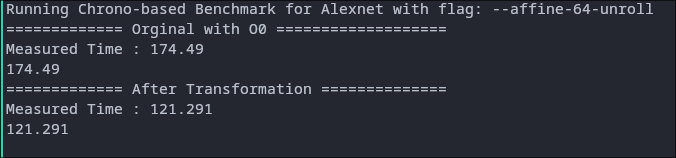
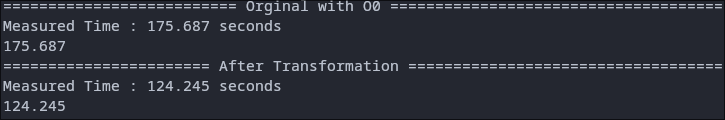
Updated Readme and Build scripts
Updated the above for better presentation

diff --git a/benchmarks/Hardware_Counters_or_Time/run_bench.h b/benchmarks/Hardware_Counters_or_Time/run_bench.h
@@ -105,7 +105,7 @@ void print_time() {
       std::chrono::duration_cast<std::chrono::nanoseconds>(timing).count();
   time_reading = time_reading_ns / 1000000000;
 #ifdef HUMAN_READABLE
-  std::cerr << "Measured Time : " << time_reading << std::endl;
+  std::cerr << "Measured Time : " << time_reading << " seconds" << std::endl;
 #endif
   std::cerr << time_reading << std::endl;
 }

diff --git a/README.md b/README.md
@@ -58,7 +58,7 @@ git submodule update --init --recursive
 
 ### 3) Run a Pre-included Benchmark to Verify the Setup
 ```bash
-./benchmark GB Alexnet --affine-64-unroll
+./benchmark.sh chrono Alexnet --affine-64-unroll
 ```
 
 ## Usage Guide
@@ -76,9 +76,13 @@ To run your own benchmarks, use the command:
 ```bash
 $rootdir/benchmark.sh [benchmark_type] [ML_model] [benchmark_flag] [PAPI_event_name]
 ```
+![sample_output](https://github.com/mvvsmk/OptML/blob/main/example_output.png?raw=true)
 
 > [!WARNING]  
 > Before interpreting your benchmark results, it's important to understand how the benchmarking process works.
+> This looks like a 29% increase but what you miss, is the object file size increase from 16KB to 2.5MB. XD . This was measured on a Intel(R) Core(TM) Ultra 9 185H, in a single threaded manner, this measurement also includes array initilization to all zeros.
+
+
 
 ## Benchmarking Process
 
@@ -109,7 +113,13 @@ extern "C" void forward();
 
 When you run a pass using the `benchmark.sh` script, it generates a `Modified.mlir` file, which is then processed through the same pipeline and linked for benchmarking.
 
+All these benchmarks are run in a single threaded manner without sudo taskset -c <thread>.
+
+You can use the *.cpp and *.h files present in the `benchmarks/Hardware_Counters_or_Time` folder and add any custom parameters you want to measure.
+
 ### Files of Interest
+
+Do go through these files if you want to lean more on how the benchmarks actually compile and execute. 
 
 - **`benchmark.sh`**: Executes your pass and compares the results against the original.
 - **`make_MLIR_obj.py`**: Converts the MLIR file to an object file for benchmarking.
